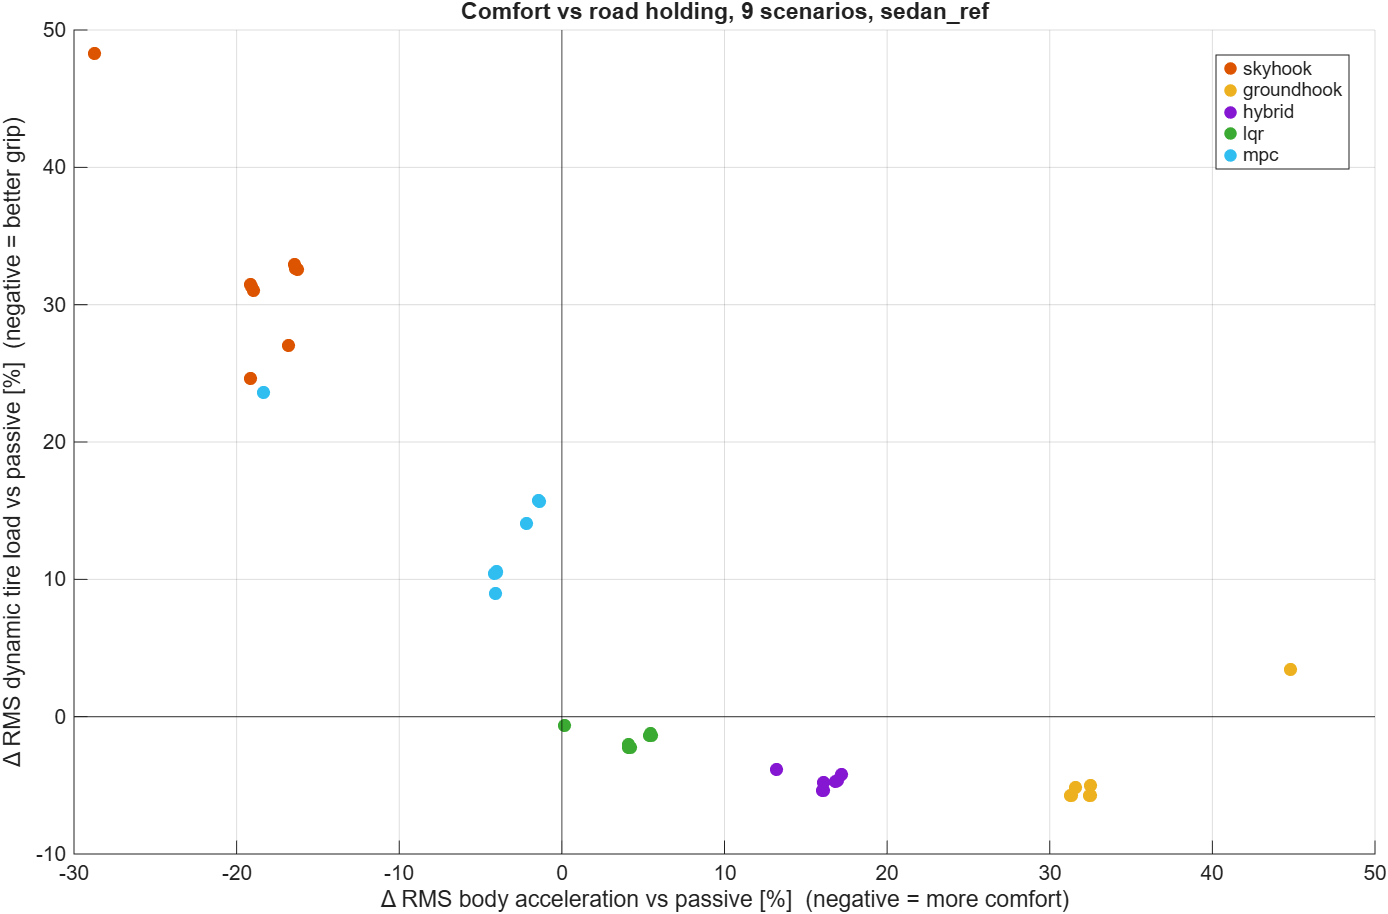
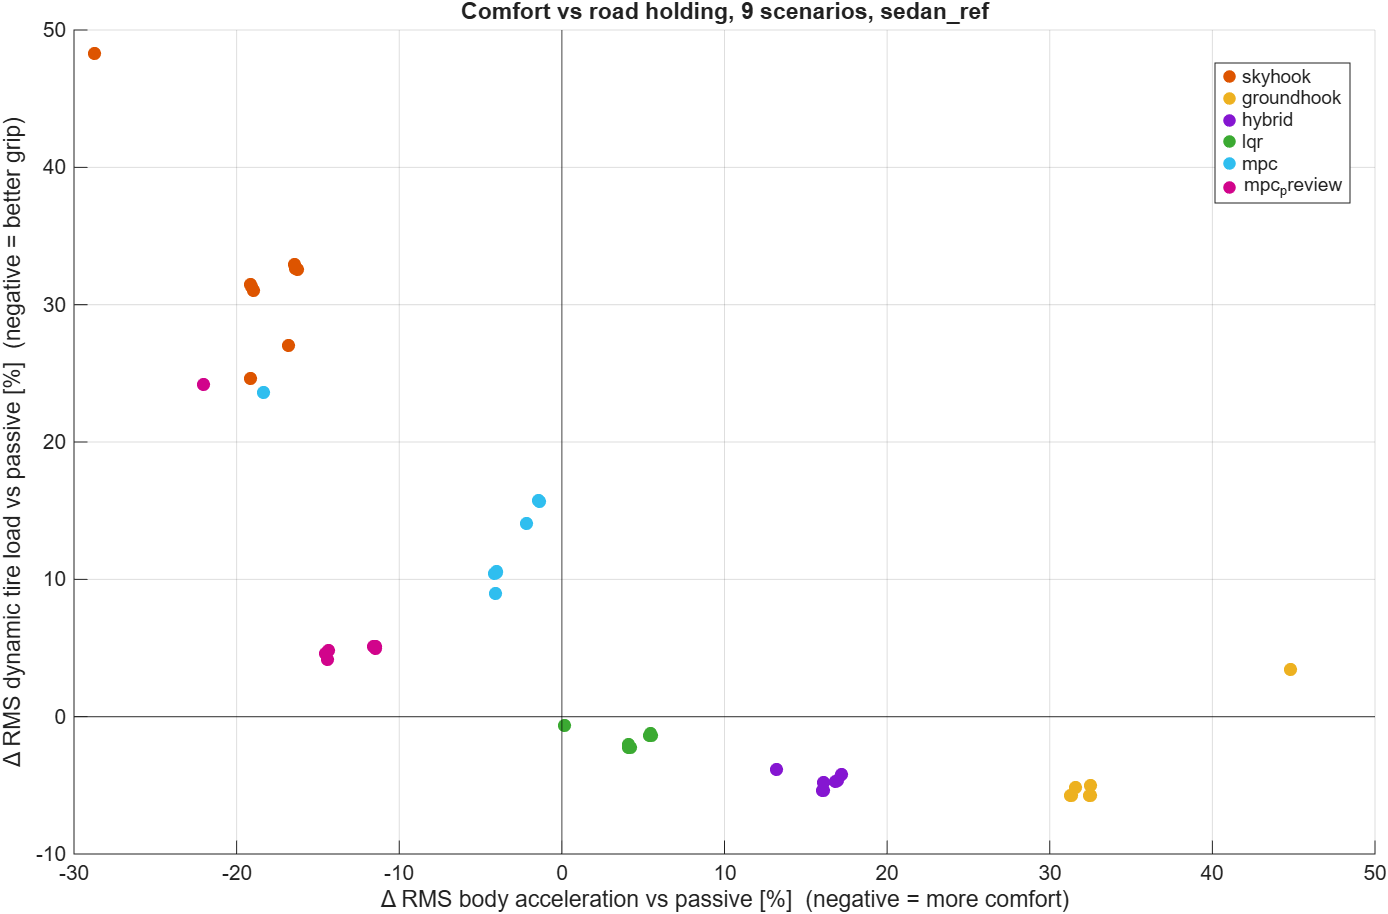
M9: back-to-back, traceability and comparison with the preview MPC
Preview MPC on SC-C80: comfort -14.3 %, tire load +4.8 % (REQ-P-07/08 pass); back-to-back within 2.1e-13 A; 16 Pass, 3 known Fail, 0 Unverified. README, REQ.md note and devlog.

Changed region(s): [[0.8674, 0.0613, 0.9914, 0.2144], [0.2169, 0.7046, 0.2788, 0.7352], [0.1239, 0.3982, 0.1549, 0.4289]]

diff --git a/results/traceability.md b/results/traceability.md
@@ -2,10 +2,10 @@
 
 Generated by `src/matlab/run_tests.m`; do not edit by hand. Requirements: [REQ.md](../requirements/REQ.md).
 
-- Generated: 2026-11-04 11:03
-- Commit: `638812c`
+- Generated: 2026-11-04 20:20
+- Commit: `600e15d-dirty`
 - MATLAB: 26.1.0.3276743 (R2026a) Update 3
-- Result: **14 Pass, 3 Fail (3 known), 0 Unverified** of 17 requirements
+- Result: **16 Pass, 3 Fail (3 known), 0 Unverified** of 19 requirements
 
 Pass: all linked tests passed. Fail (known): the failing test is tagged `KnownFail` (accepted, strategy to be improved). Unverified: no test yet, or a test could not run.
 
@@ -16,17 +16,19 @@ Pass: all linked tests passed. Fail (known): the failing test is tagged `KnownFa
 | REQ-F-03 | Initialization | `TestController/REQ_F_03_initial_output`<br>`TestSafety/fault_at_step_0_is_registered` | `i_cmd`(0) = I<sub>default</sub> and `fault_active`(0) = 0 exactly | i_cmd(0): 0.95 A | **Pass** |
 | REQ-F-04 | Rate limit | `TestSafety/REQ_F_04_rate_never_exceeded`<br>`TestSafety/REQ_F_04_rate_limit_is_active` | \|`i_cmd`(k) − `i_cmd`(k−1)\| ≤ ΔI<sub>max</sub> + 1e-12 A at every sample | max \|delta i_cmd\| per step: 0.13 A | **Pass** |
 | REQ-F-05 | Finite output | `TestControlLaws/REQ_F_05_skyhook_vrel_zero`<br>`TestControlLaws/REQ_F_05_groundhook_vrel_zero`<br>`TestControlLaws/REQ_F_05_hybrid_vrel_zero`<br>`TestControlLaws/REQ_F_05_finite_output_sweep` | No NaN or Inf in `i_cmd` or `fault_active` | grid points x modes with non-finite output: 0 count | **Pass** |
-| REQ-F-06 | Semi-active request of model-based laws | `TestModelBasedDesign/REQ_F_06_dissipative_request_gives_F_over_v`<br>`TestModelBasedDesign/REQ_F_06_non_dissipative_request_goes_passive`<br>`TestModelBasedDesign/REQ_F_06_tiny_velocity_goes_passive`<br>`TestModelBasedDesign/REQ_F_06_solver_failure_goes_passive`<br>`TestModelBasedLaws/REQ_F_06_lqr_slot_matches_hand_calculation`<br>`TestModelBasedLaws/REQ_F_06_mpc_slot_matches_mpcmove` | Equal to the rule within 1e-12 N·s/m | largest current difference, LQR slot vs rule: 0 A<br>largest current difference, MPC slot vs mpcmove: 1.465e-14 A | **Pass** |
-| REQ-F-07 | MPC respects the semi-active limits | `TestModelBasedDesign/REQ_F_07_mpc_force_within_semiactive_limits`<br>`TestModelBasedLaws/REQ_F_07_mpc_force_within_bounds_closed_loop` | Every QP solved; largest violation ≤ **1e-6 N** *(PA)*: solver round-off, 9 orders below the force range | largest limit violation: 4.103e-12 N<br>largest bound violation, closed loop SC-C80 10 s: 2.274e-12 N | **Pass** |
+| REQ-F-06 | Semi-active request of model-based laws | `TestModelBasedDesign/REQ_F_06_dissipative_request_gives_F_over_v`<br>`TestModelBasedDesign/REQ_F_06_non_dissipative_request_goes_passive`<br>`TestModelBasedDesign/REQ_F_06_tiny_velocity_goes_passive`<br>`TestModelBasedDesign/REQ_F_06_solver_failure_goes_passive`<br>`TestModelBasedLaws/REQ_F_06_lqr_slot_matches_hand_calculation`<br>`TestModelBasedLaws/REQ_F_06_mpc_slot_matches_mpcmove` | Equal to the rule within 1e-12 N·s/m | largest current difference, LQR slot vs rule: 0 A<br>largest current difference, MPC slots (modes 5, 6) vs mpcmove: 1.688e-14 A | **Pass** |
+| REQ-F-07 | MPC respects the semi-active limits | `TestModelBasedDesign/REQ_F_07_mpc_force_within_semiactive_limits`<br>`TestModelBasedLaws/REQ_F_07_mpc_force_within_bounds_closed_loop` | Every QP solved; largest violation ≤ **1e-6 N** *(PA)*: solver round-off, 9 orders below the force range | largest limit violation: 4.103e-12 N<br>largest bound violation, closed loop SC-C80 10 s, modes 5 and 6: 2.274e-12 N | **Pass** |
 | REQ-P-01 | Ride comfort | `TestPerformance/REQ_P_01_ride_comfort` | Reduction ≥ **10 %** *(PA)*: published semi-active skyhook simulations report ≈ 10 % (9.7 % [L5], 10.6 % [L7]) | RMS body acceleration reduction vs passive (SC-C80, skyhook): 18.93 % | **Pass** |
 | REQ-P-02 | Road holding penalty | `TestPerformance/REQ_P_02_road_holding_penalty` | Increase ≤ **10 %** *(PA)*: no published figure found; literature supports only the direction of the effect | RMS dynamic tire load increase vs passive (SC-C80, skyhook): 31.01 % | **Fail (known)** |
 | REQ-P-03 | Suspension travel | `TestPerformance/REQ_P_03_suspension_travel` | max \|z<sub>s</sub> − z<sub>u</sub>\| ≤ **100 mm** *(PA)*: a 10 cm deflection limit is used in a quarter-car bump study [L4]; another study requires ≥ 125 mm total travel [L9] | max suspension travel on SC-BUMP, all modes (worst: mode 1): 66.33 mm | **Pass** |
 | REQ-P-04 | Robustness across vehicles | `TestPerformance/REQ_P_04_robustness_across_vehicles` | RMS body acceleration ≤ passive (reduction ≥ **0 %**) *(PA)* on every variant | smallest comfort reduction vs passive over 4 vehicles (light_van): 16.05 % | **Pass** |
 | REQ-P-05 | MPC ride comfort | `TestPerformance/REQ_P_05_mpc_ride_comfort` | Reduction ≥ **10 %** *(PA)*: the same threshold as skyhook (REQ-P-01), so the strategies are compared on equal terms | RMS body acceleration reduction vs passive (SC-C80, MPC): 3.994 % | **Fail (known)** |
 | REQ-P-06 | MPC road holding penalty | `TestPerformance/REQ_P_06_mpc_road_holding_penalty` | Increase ≤ **10 %** *(PA)*: the same threshold as REQ-P-02 | RMS dynamic tire load increase vs passive (SC-C80, MPC): 10.5 % | **Fail (known)** |
+| REQ-P-07 | Preview MPC ride comfort | `TestPerformance/REQ_P_07_preview_mpc_ride_comfort` | Reduction ≥ **10 %** *(PA)*: the same threshold as REQ-P-05, so both MPCs are compared on equal terms | RMS body acceleration reduction vs passive (SC-C80, preview MPC): 14.34 % | **Pass** |
+| REQ-P-08 | Preview MPC road holding penalty | `TestPerformance/REQ_P_08_preview_mpc_road_holding_penalty` | Increase ≤ **10 %** *(PA)*: the same threshold as REQ-P-06 | RMS dynamic tire load increase vs passive (SC-C80, preview MPC): 4.848 % | **Pass** |
 | REQ-S-01 | Fault reaction | `TestSafety/REQ_S_01_fault_reaction_time`<br>`TestSafety/REQ_S_01_fault_overrides_every_mode` | From the first sample with `fault_flag` > 0.5 to the first sample where \|`i_cmd` − I<sub>default</sub>\| ≤ tol<sub>I</sub> and stays there: ≤ **10 ms** *(PA)* | fault reaction time: 5 ms | **Pass** |
 | REQ-S-02 | Fault latch | `TestSafety/REQ_S_02_single_pulse_latches`<br>`TestSafety/REQ_S_02_toggling_flag_cannot_clear` | `fault_active` has exactly one 0 → 1 transition and no 1 → 0 transition; after t<sub>react</sub>, \|`i_cmd` − I<sub>default</sub>\| ≤ tol<sub>I</sub> until the end of the run | 1 -> 0 transitions after a pulse: 0 count<br>1 -> 0 transitions while toggling: 0 count | **Pass** |
-| REQ-V-01 | Generated code matches model | `pytest: test_REQ_V_01_generated_code_matches_mil[mil_SC-BUMP]`<br>`pytest: test_REQ_V_01_generated_code_matches_mil[mil_SC-C80]`<br>`pytest: test_REQ_V_01_generated_code_matches_mil[mil_SC-FAULT]`<br>`pytest: test_REQ_V_01_interface_matches_header`<br>`pytest: test_REQ_V_01_initialize_resets_state`<br>`pytest: test_REQ_V_01_code_up_to_date`<br>`pytest: test_REQ_V_01_logs_parsed_exactly[mil_SC-BUMP]`<br>`pytest: test_REQ_V_01_logs_parsed_exactly[mil_SC-C80]`<br>`pytest: test_REQ_V_01_logs_parsed_exactly[mil_SC-FAULT]`<br>`pytest: test_REQ_V_01_local_result_up_to_date` | Every sample: \|`i_cmd`<sub>code</sub> − `i_cmd`<sub>MiL</sub>\| ≤ atol + rtol·\|`i_cmd`<sub>MiL</sub>\|; `fault_active` identical; same sample index k (no offset) | max \|i_cmd code - MiL\| (SC-BUMP): 8.904e-14 A<br>max \|i_cmd code - MiL\| (SC-C80): 0 A<br>max \|i_cmd code - MiL\| (SC-FAULT): 0 A | **Pass** |
+| REQ-V-01 | Generated code matches model | `pytest: test_REQ_V_01_generated_code_matches_mil[mil_SC-BUMP]`<br>`pytest: test_REQ_V_01_generated_code_matches_mil[mil_SC-C80]`<br>`pytest: test_REQ_V_01_generated_code_matches_mil[mil_SC-FAULT]`<br>`pytest: test_REQ_V_01_interface_matches_header`<br>`pytest: test_REQ_V_01_initialize_resets_state`<br>`pytest: test_REQ_V_01_code_up_to_date`<br>`pytest: test_REQ_V_01_logs_parsed_exactly[mil_SC-BUMP]`<br>`pytest: test_REQ_V_01_logs_parsed_exactly[mil_SC-C80]`<br>`pytest: test_REQ_V_01_logs_parsed_exactly[mil_SC-FAULT]`<br>`pytest: test_REQ_V_01_local_result_up_to_date` | Every sample: \|`i_cmd`<sub>code</sub> − `i_cmd`<sub>MiL</sub>\| ≤ atol + rtol·\|`i_cmd`<sub>MiL</sub>\|; `fault_active` identical; same sample index k (no offset) | max \|i_cmd code - MiL\| (SC-BUMP): 2.101e-13 A<br>max \|i_cmd code - MiL\| (SC-C80): 3.109e-14 A<br>max \|i_cmd code - MiL\| (SC-FAULT): 0 A | **Pass** |
 | REQ-V-02 | Reference data provenance | `pytest: test_REQ_V_02_metadata_complete[mil_SC-BUMP]`<br>`pytest: test_REQ_V_02_metadata_complete[mil_SC-C80]`<br>`pytest: test_REQ_V_02_metadata_complete[mil_SC-FAULT]` | Each `tests/data/mil_*.csv` has a `.json` with non-empty: git commit hash, model name, scenario ID, vehicle (D13), road seed, speed, sample time, MATLAB release, generation date | 3/3 tests passed | **Pass** |
 
 Raw output of the run (git-ignored): `results/test/matlab_junit.xml`, `pytest_junit.xml`, `evidence.jsonl`.

diff --git a/README.md b/README.md
@@ -54,7 +54,9 @@ damper force), a linear prediction model with the damper lag, and an LQR law
 slot that runs through the same safety logic, tests, code generation and
 back-to-back (M7). A classic model predictive controller (MPC) with the
 damper's limits inside its optimization follows the same path, including
-generated QP solver code verified back-to-back (M8).
+generated QP solver code verified back-to-back (M8). A preview MPC that is
+told the road ahead by an ideal look-ahead sensor meets the comfort and
+road-holding requirements that the classic MPC misses (M9).
 
 ## Results
 
@@ -74,6 +76,7 @@ change versus passive on the same road; **negative = better**.
 | Hybrid (α = 0.5) | 1.75 | +16.1 % | 632 | −5.4 % | 26.0 | −27.4 % |
 | LQR (v2) | 1.57 | +4.2 % | 654 | −2.2 % | 41.1 | +14.7 % |
 | MPC (v2) | 1.45 | −4.0 % | 739 | +10.5 % | 48.0 | +33.8 % |
+| Preview MPC (v2) | 1.29 | −14.3 % | 701 | +4.8 % | 39.2 | +9.2 % |
 
 **Bump 50 mm × 0.5 m at 18 km/h (SC-BUMP)**
 
@@ -85,6 +88,7 @@ change versus passive on the same road; **negative = better**.
 | Hybrid (α = 0.5) | 1.38 | +13.2 % | 431 | −3.8 % | 48.0 | −9.9 % |
 | LQR (v2) | 1.22 | +0.2 % | 445 | −0.6 % | 53.3 | +0.0 % |
 | MPC (v2) | 0.99 | −18.3 % | 553 | +23.6 % | 65.2 | +22.3 % |
+| Preview MPC (v2) | 0.95 | −22.1 % | 556 | +24.2 % | 65.2 | +22.3 % |
 
 <sub>Source: [`results/comparison/kpi_comparison_sedan_ref.csv`](results/comparison/kpi_comparison_sedan_ref.csv)</sub>
 <!-- END generated:comparison -->
@@ -96,9 +100,9 @@ Verification:
 <!-- BEGIN generated:verification (src/python/readme_results.py; do not edit by hand) -->
 | Check | Result |
 |---|---|
-| Requirements (17) | **14 Pass, 3 Fail (3 known), 0 Unverified** (commit `638812c`) |
+| Requirements (19) | **16 Pass, 3 Fail (3 known), 0 Unverified** (commit `600e15d-dirty`) |
 | Fault reaction, REQ-S-01 (limit 10 ms) | **5 ms** |
-| Generated C code vs MiL, REQ-V-01 | **max \|Δ i_cmd\| = 8.90399e-14 A** over 26,003 samples (SC-BUMP, SC-C80, SC-FAULT); fault_active identical: yes |
+| Generated C code vs MiL, REQ-V-01 | **max \|Δ i_cmd\| = 2.10054e-13 A** over 26,003 samples (SC-BUMP, SC-C80, SC-FAULT); fault_active identical: yes |
 
 <sub>Source: [`results/traceability.md`](results/traceability.md)</sub> · <sub>Source: [`results/back_to_back.json`](results/back_to_back.json)</sub>
 <!-- END generated:verification -->
@@ -138,7 +142,9 @@ first-order lag τ (nominal 10 ms). Change versus passive at the same lag, SC-C8
   acceleration, tire load and travel, the same goal as the MPC (D34). MPC:
   5 ms, prediction horizon 10 steps (50 ms), control horizon 5, same weights,
   road velocity held constant over the horizon (no preview); the tuning
-  study behind these defaults is in D38.
+  study behind these defaults is in D38. Preview MPC: prediction horizon 40
+  steps (200 ms), weights 1 / 0.25 / 0.1, road velocity over the horizon from
+  an ideal look-ahead sensor 205 ms ahead (D39, D40, D42).
 
 ### Interpretation
 
@@ -173,6 +179,18 @@ MPC toward the LQR and loses comfort at every weight. Neither weights nor
 horizon fix it; what the classic MPC lacks is knowledge of the road ahead,
 which is the next formulation: a preview MPC (D38).
 
+The preview MPC (v2) gets exactly that: the road velocity over its whole
+horizon from an ideal look-ahead sensor. At the classic tuning it already
+cuts the tire-load increase from +10.5 % to +1.7 % at the same comfort; with
+preview a longer horizon carries real road information instead of an
+extrapolation, and at 200 ms with a lower tire-load weight it reaches
+−14 % comfort at +5 % tire load, meeting REQ-P-07 and REQ-P-08. The setting
+was checked on roads it was not tuned on (C50, D80, a second C80 road),
+where it stays inside both limits (D42). On the single bump the gain is
+small: one large event drives the force to the damper's limits, and knowing
+it in advance cannot create force the damper does not have. The sensor is
+ideal, so this is the upper bound of what preview can give.
+
 ## Traceability
 
 Every requirement is linked to its tests by ID; the report with tests,
@@ -195,6 +213,8 @@ acceptance criteria and measured values is generated by `run_tests()`:
 | REQ-P-04 | Robustness across vehicles | **Pass** |
 | REQ-P-05 | MPC ride comfort | **Fail (known)** |
 | REQ-P-06 | MPC road holding penalty | **Fail (known)** |
+| REQ-P-07 | Preview MPC ride comfort | **Pass** |
+| REQ-P-08 | Preview MPC road holding penalty | **Pass** |
 | REQ-S-01 | Fault reaction | **Pass** |
 | REQ-S-02 | Fault latch | **Pass** |
 | REQ-V-01 | Generated code matches model | **Pass** |
@@ -270,9 +290,9 @@ This project does **not** demonstrate:
 - **State estimation:** the controller gets ideal measurements (velocities,
   and in v2 positions, road height and damper force); a real system needs an
   estimator from accelerometers.
-- **Model-based control:** an LQR with clipping and passive fallback and a
-  classic MPC without road preview; the MPC misses REQ-P-05/06 (known,
-  reported, D38).
+- **Model-based control:** an LQR with clipping and passive fallback, a
+  classic MPC that misses REQ-P-05/06 (known, reported, D38) and a preview
+  MPC with an **ideal** look-ahead sensor (no noise, delay or speed error).
 - **Real time and hardware:** no real-time execution, no PiL/HiL, no target
   hardware; the back-to-back replays logged inputs open loop.
 - **Vehicle validation:** a linear quarter car with tire lift-off, not a
@@ -283,9 +303,9 @@ This project does **not** demonstrate:
 
 ## Next steps
 
-**v2 (in progress):** full-state interface and LQR (M7) and the classic
-receding-horizon MPC (M8) done; next a preview MPC that uses the road ahead
-over its horizon, then further MPC formulations and strategies.
+**v2 (in progress):** full-state interface and LQR (M7), the classic
+receding-horizon MPC (M8) and the preview MPC (M9) done; next a realistic
+preview sensor (noise, delay), then further MPC formulations and strategies.
 Afterwards **v3** a half car and **v4** a full vehicle, each adapting the whole
 workflow of this project. v1.0.0 stays available on the `release/1.x` branch.
 

diff --git a/docs/DEVLOG.md b/docs/DEVLOG.md
@@ -48,3 +48,4 @@ One line per session: what was done, what is next, what blocks progress.
 | 2026-11-02 | Plant, controller and Law_4_LQR built by the author; tests moved to 8 inputs; LQR slot = hand calculation (1e-12 A); test-file load guard after a silently skipped class; harness zs logging mis-wired (caught by replay, fixed, new physics check); logs, code, back-to-back bit-identical incl. LQR (14 Pass, 1 known Fail, 2 Unverified); LQR ≈ passive (60 % passive fallback); README v2; `docs/` tidied (personal material in git-ignored `docs/local/`) | M7 report, release `v2.0.0`; then M8 MPC slot | – |
 | 2026-11-03 | Law_5_MPC built by the author (MPC block at 5 ms, rate transitions, road velocity as measured disturbance, online semi-active bounds); MPC slot = `mpcmove` (≤ 2.6e-15 A over 20 states), road-velocity input live (0.92 A); REQ-F-07 closed loop 2.3e-12 N with 81 % of solves on a limit; found: tests relied on `mpc_law5` left in the base workspace (fixed); logs with the MPC (SC-C80/SC-FAULT data byte-identical), code with the KWIK QP solver, back-to-back 8.9e-14 A; comparison: MPC −4.0 % comfort, +10.5 % tire load | MPC tuning study | – |
 | 2026-11-04 | `run_study` parameter overrides (`cfg.params`); tuning study run by the author (tire-load weight at p = 10 and p = 40, Δu weight): no tuning meets REQ-P-05 and REQ-P-06 together, defaults kept (D38); REQ-P-05/06 tagged KnownFail; D33 wording revised | M8 report, release `v2.1.0`; then preview MPC | – |
+| 2026-11-04 | M9 started: D39–D41 (ideal look-ahead sensor as input 9, Law_6_MPC_Preview as mode 6, REQ-P-07/08), D29 revised (appended inputs minor); Law_6_MPC_Preview and harness sensor built by the author (input named `zr_preview`); preview rows = road velocity ahead, slot = `mpcmove` with preview; logs, code, back-to-back with both MPCs; tuning study by the author (grid p × weight, neighbours, unseen roads, w 0.3 vs 0.25): defaults p = 40, weights 1 / 0.25 / 0.1 (D42); 16 Pass, 3 known Fail, 0 Unverified | M9 report, release `v2.2.0`; then a realistic preview sensor | – |

diff --git a/CHANGELOG.md b/CHANGELOG.md
@@ -10,8 +10,6 @@ Version 2 (model-based control): M7 → `v2.0.0` (interface change = major),
 M8 classic MPC → `v2.1.0`, each further strategy a minor version (D29).
 
 ## [Unreleased]
-- v2/M9: MiL reference logs from 2423838 (preview MPC defaults, D42):
-  SC-BUMP changed, SC-C80 and SC-FAULT data unchanged.
 
 ### Added
 - v2/M9: decisions D39 (ideal look-ahead sensor, controller input 9
@@ -55,6 +53,15 @@ M8 classic MPC → `v2.1.0`, each further strategy a minor version (D29).
   REQ-P-07/08 box on C80 (seeds 1 and 2), C50 and D80 with 1.4–4.4 points
   margin. `REQ_F_06_mpc_slot_matches_mpcmove` compares each MPC slot with its
   own object.
+- v2/M9: MiL reference logs from 2423838 (600e15d): SC-BUMP changed (mode 6
+  retuned); in SC-C80 and SC-FAULT only the `zr_preview` column changed
+  (sensor now 205 ms ahead), all other columns identical.
+- v2/M9: back-to-back record and traceability at 600e15d: SC-BUMP
+  2.1e-13 A, SC-C80 3.1e-14 A, SC-FAULT 0 A; 16 Pass, 3 known Fail
+  (REQ-P-02/05/06), 0 Unverified; comparison with the preview MPC (SC-C80:
+  comfort −14.3 %, tire load +4.8 %, travel +9.2 % vs passive); README
+  results, v2 status, interpretation, limitations and next steps; REQ.md
+  change note; devlog.
 
 ## [2.1.0] - 2026-11-04
 

diff --git a/requirements/REQ.md b/requirements/REQ.md
@@ -156,3 +156,7 @@ unchanged; they remain the targets for the preview MPC.
 Change 2026-11-04 (M9, D39–D41): added REQ-P-07, REQ-P-08 (preview MPC comfort and road holding on
 SC-C80, thresholds of REQ-P-05/06, fixed before any preview result). REQ-F-06 and REQ-F-07
 extended to mode 6. REQ-P-05/06 stay the record of the classic MPC.
+
+Change 2026-11-04 (M9, D42): with the tuned preview MPC (p = 40, weights
+1 / 0.25 / 0.1) REQ-P-07 and REQ-P-08 pass on SC-C80 (comfort −14.3 %, tire
+load +4.8 %). Thresholds unchanged.
